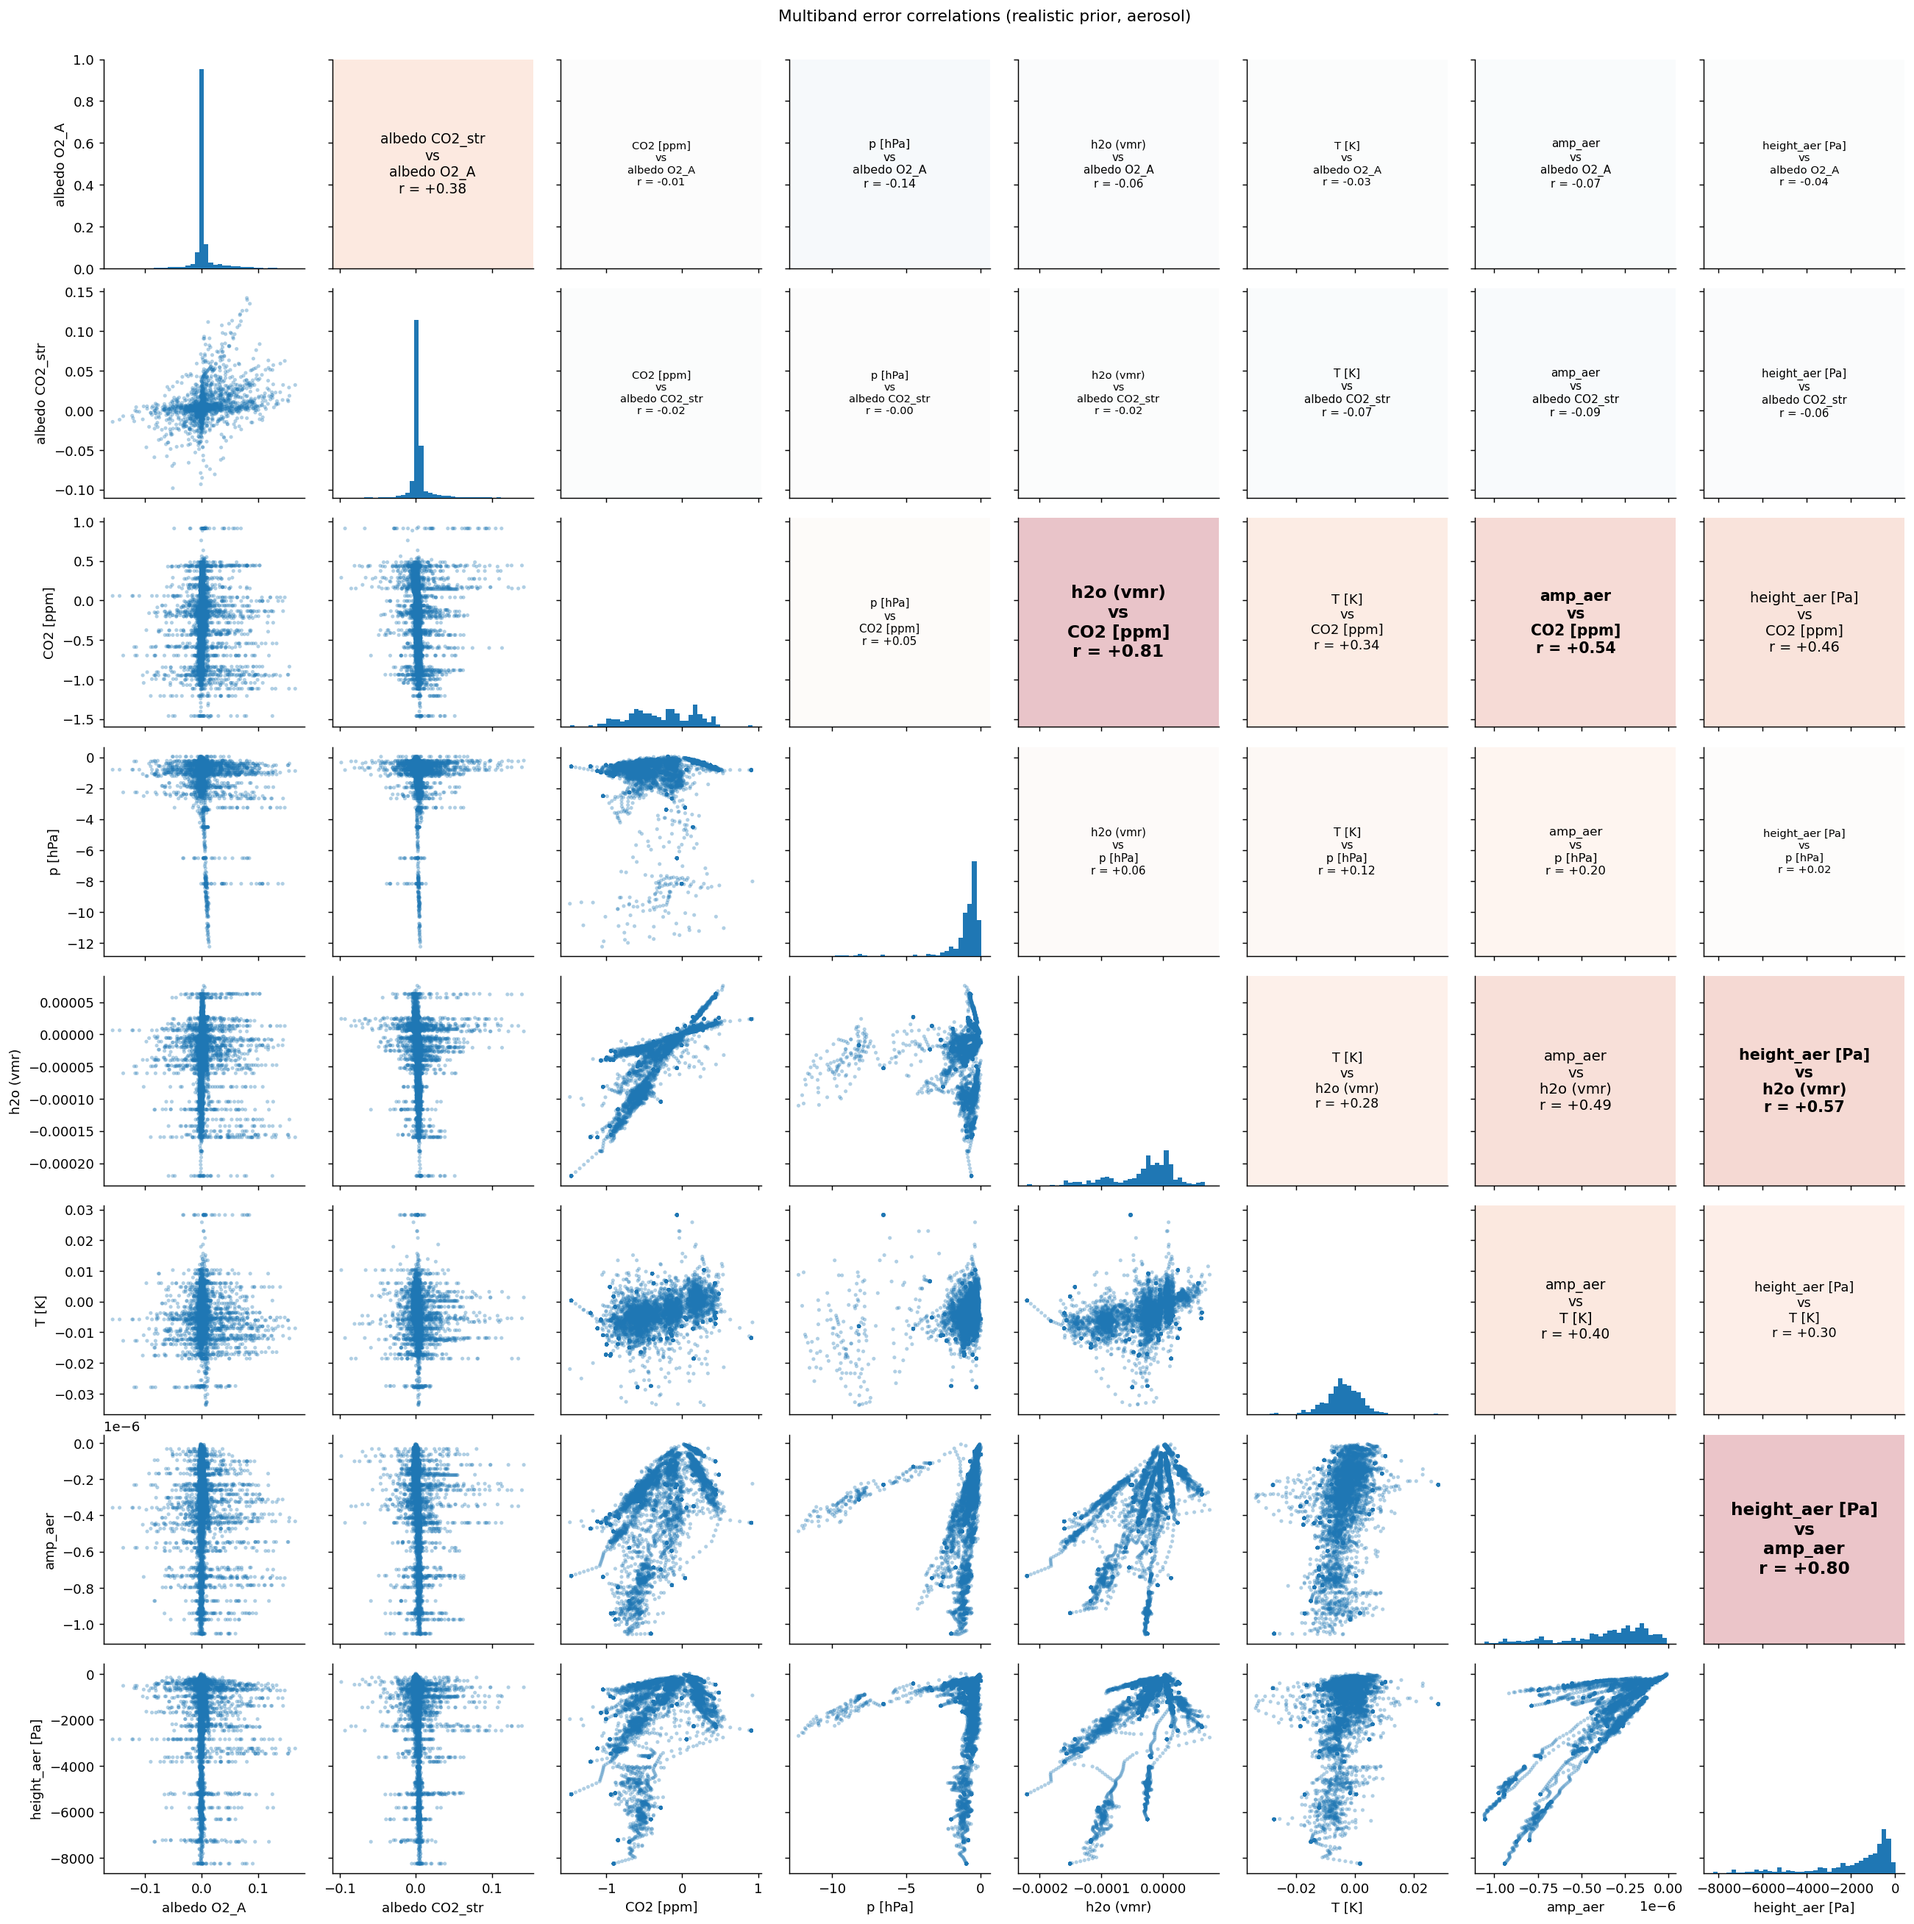
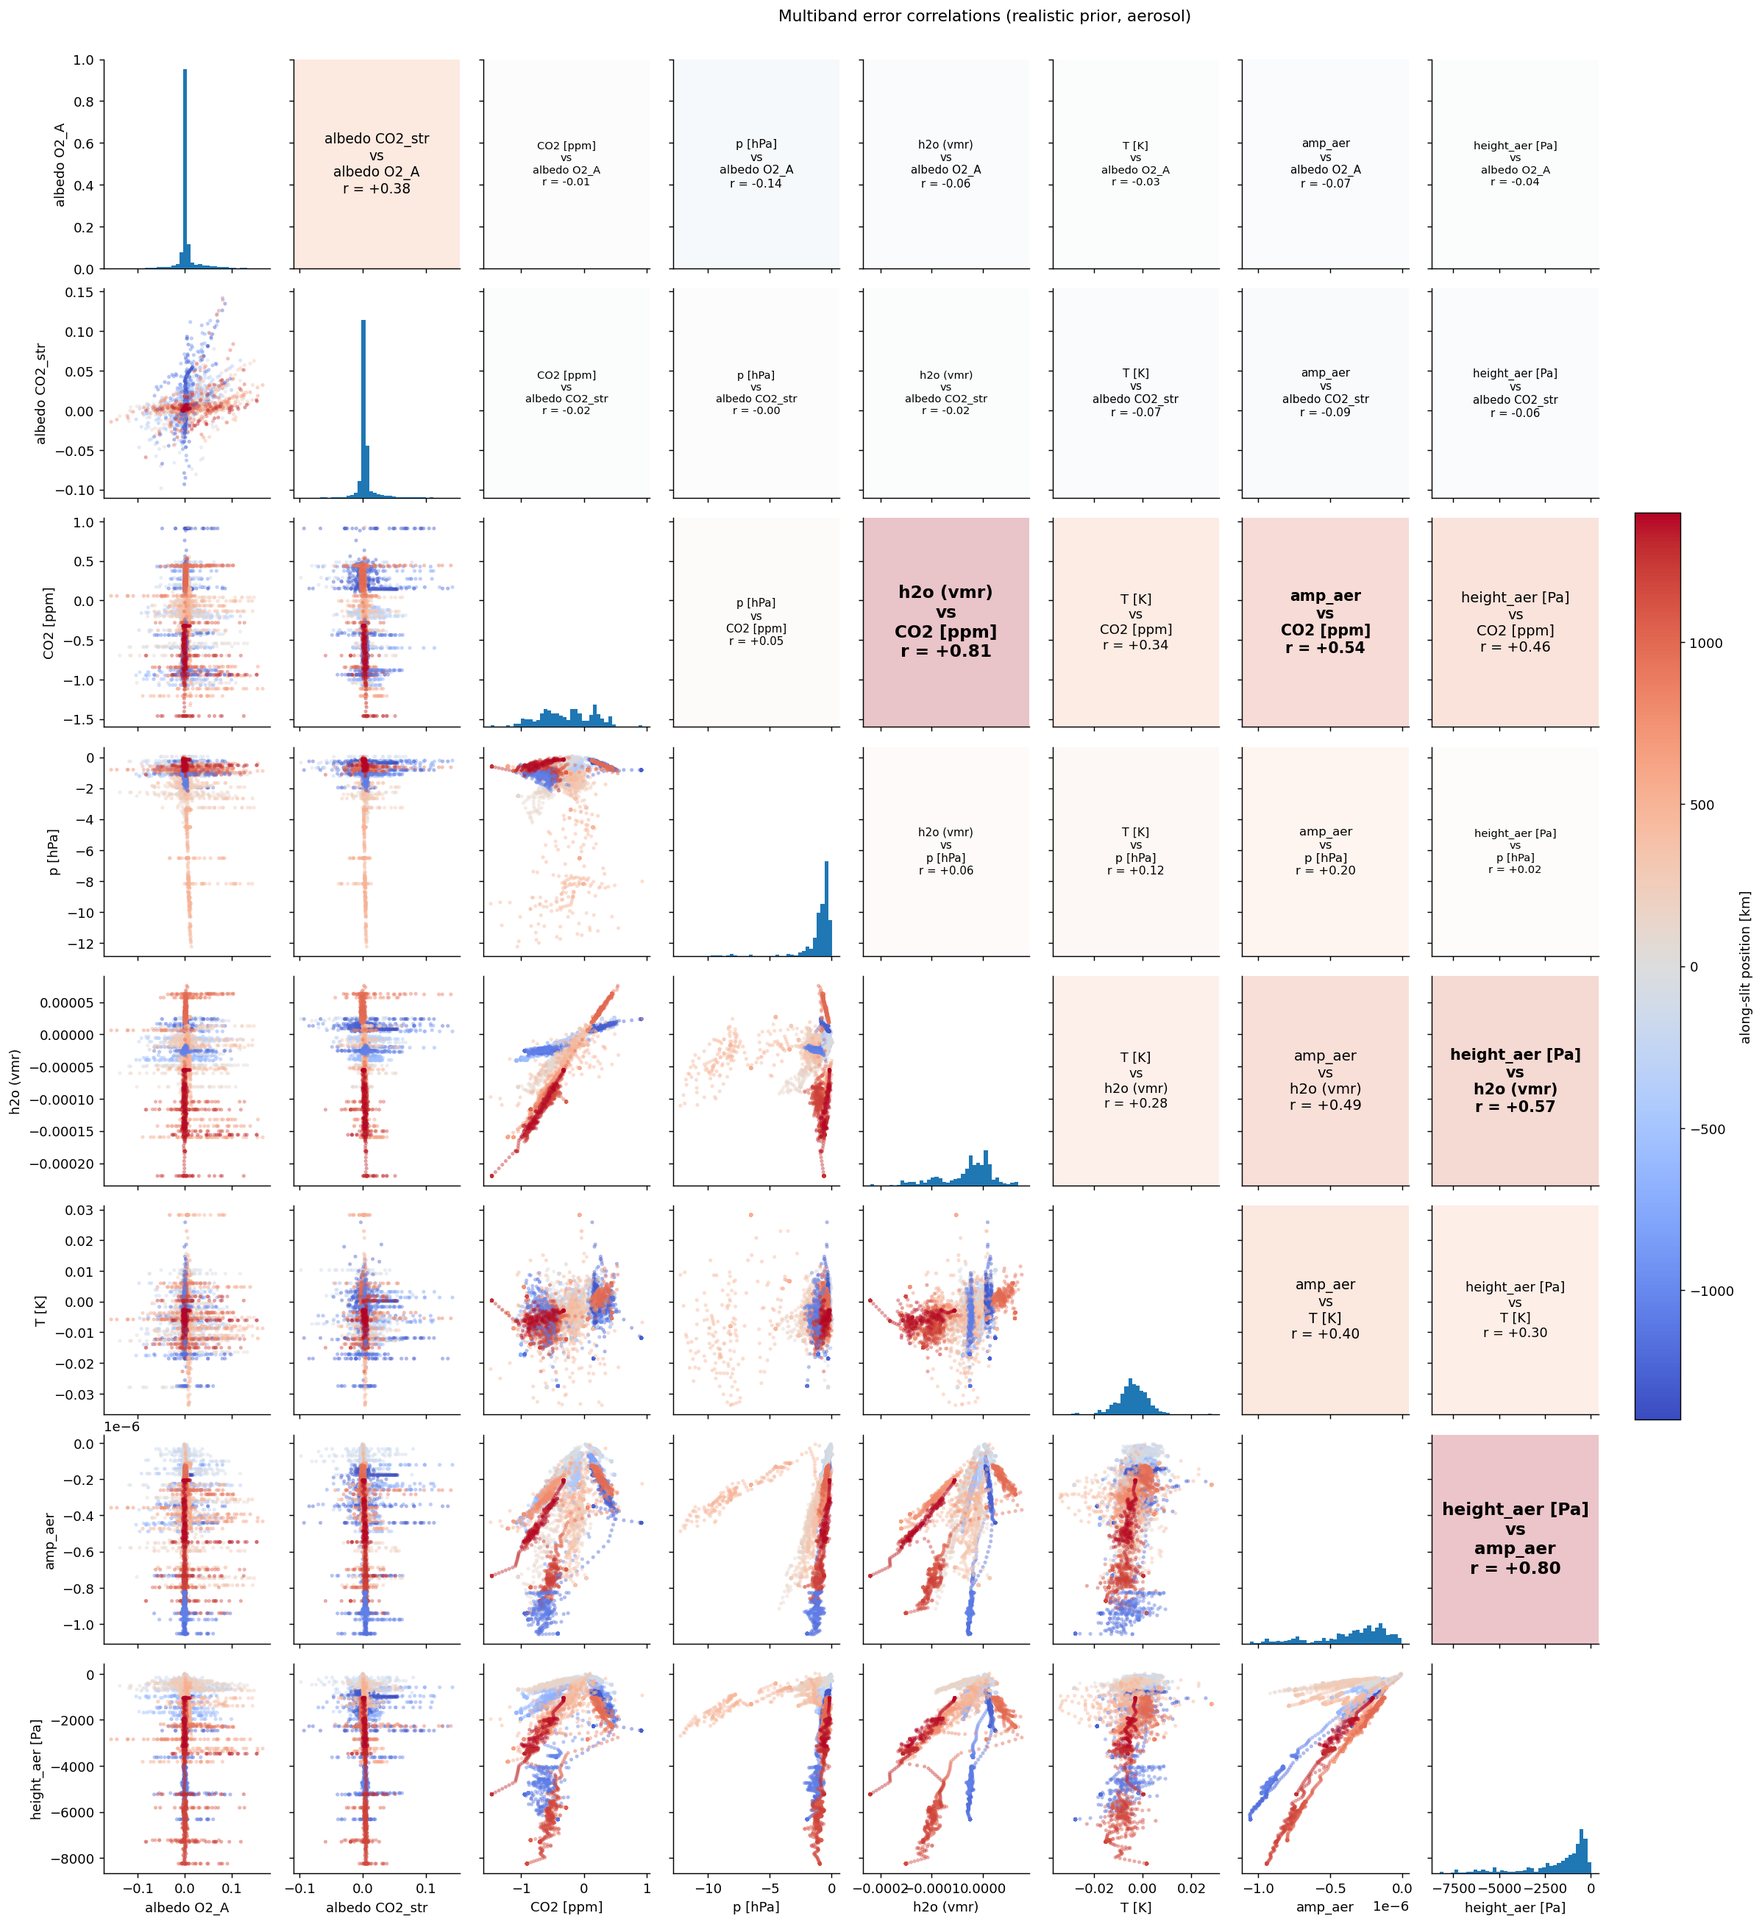
Pairplot: color lower-triangle scatter by along-slit position
Each point's own along-slit km position (a new 'along-slit [km]' column, excluded from the
plotted variable set and correlation matrix, coolwarm-mapped in map_lower via a closure over
df) -- shared colorbar. Reveals that the strongest correlations are spatially structured, not a
uniform cloud: e.g. the aerosol arm's amp_aer/height_aer and p/CO2 panels show distinct colored
branches rather than one blob (2026-09-23, user: 'color the scatterplot points by eta value').

Claude-Session: https://claude.ai/code/session_01F6HLSeGTXguZfKDC2CaZzV

diff --git a/scripts/plot_multiband_error_pairplot.py b/scripts/plot_multiband_error_pairplot.py
@@ -80,12 +80,14 @@ for f in files:
         p = params[name]
         e_coarse = np.asarray(p["values"])[1:-1] - truth_of(name, x_coarse)[1:-1]   # drop ITS OWN boundary too
         tile_err[name] = np.interp(x_fine_k, x_coarse[1:-1], e_coarse)
+    tile_err["along-slit [km]"] = x_fine_k              # NOT a plotted variable -- scatter color only
     rows_out.append(pd.DataFrame(tile_err))
 df = pd.concat(rows_out, ignore_index=True)
 df = df.rename(columns=LABELS)
+plot_vars = [c for c in df.columns if c != "along-slit [km]"]
 print(f"{len(files)} tiles, {len(df)} bins pooled")
 print("\ncorrelation matrix:")
-print(df.corr().round(3).to_string())
+print(df[plot_vars].corr().round(3).to_string())
 
 def annotate_corr(x, y, **kws):
     """Upper triangle (2026-09-23, user: 'labels that have the names of the pairwise variables
@@ -99,12 +101,26 @@ def annotate_corr(x, y, **kws):
                ha="center", va="center", fontsize=8 + 6 * abs(r), fontweight="bold" if abs(r) > 0.5 else "normal")
 
 
-g = sns.PairGrid(df)
+ETA_NORM = plt.Normalize(vmin=-1400, vmax=1400)
+
+
+def scatter_by_eta(x, y, **kws):
+    """Lower triangle (2026-09-23, user: 'color the scatterplot points by eta value') -- each
+    point's along-slit km position, not just which tile it came from, so a correlation that's
+    actually localized to one part of the slit (e.g. the low-albedo region flagged separately)
+    is visible directly rather than looking like a uniform cloud."""
+    c = df.loc[x.index, "along-slit [km]"]
+    plt.scatter(x, y, c=c, cmap="coolwarm", norm=ETA_NORM, s=8, alpha=0.45, edgecolor="none")
+
+
+g = sns.PairGrid(df, vars=plot_vars)
 g.map_diag(plt.hist, bins=40)
-g.map_lower(sns.scatterplot, s=8, alpha=0.35, edgecolor="none")
+g.map_lower(scatter_by_eta)
 g.map_upper(annotate_corr)
 g.figure.suptitle(f"Multiband error correlations ({PRIOR} prior{', aerosol' if AEROSOL else ', no aerosol'})",
                   y=1.01)
+g.figure.colorbar(plt.cm.ScalarMappable(norm=ETA_NORM, cmap="coolwarm"), ax=g.axes, shrink=0.5,
+                  label="along-slit position [km]", location="right", pad=0.02)
 out = REPO / f"plots/multiband_error_pairplot{PSUF}{ASUF}.png"
 g.figure.savefig(out, dpi=130, bbox_inches="tight")
 print("saved", out)
